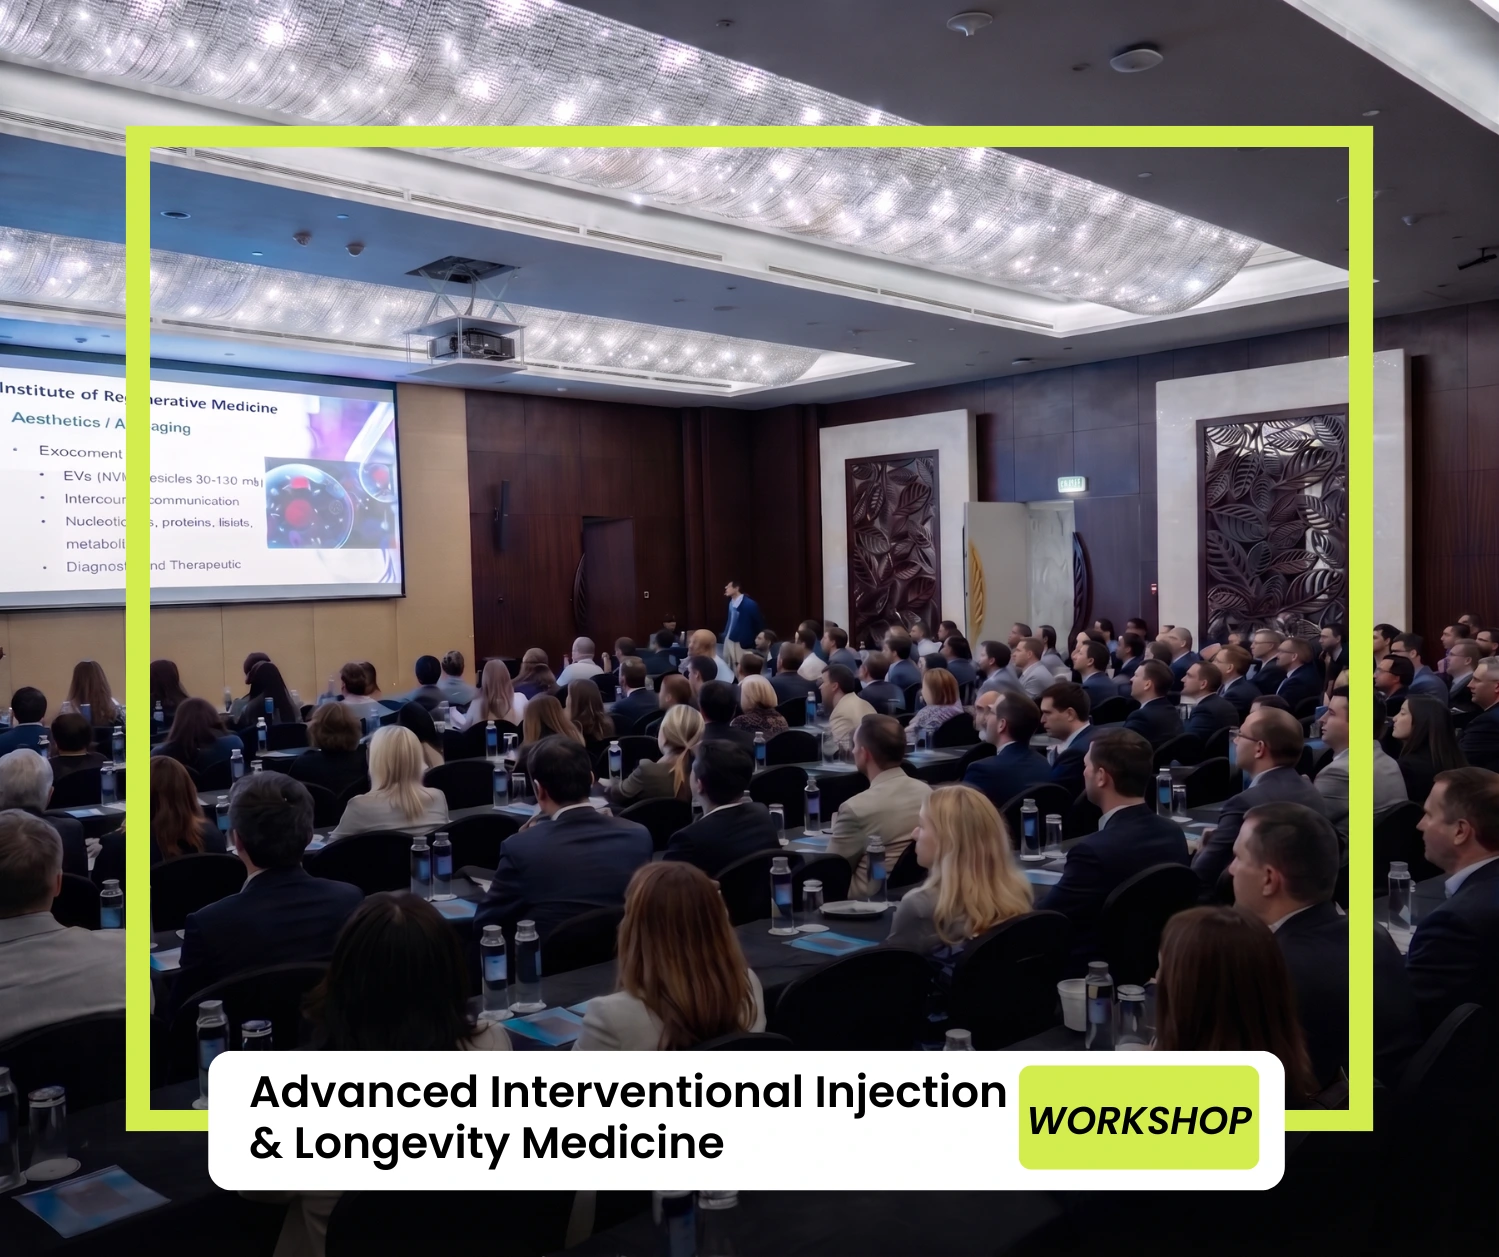
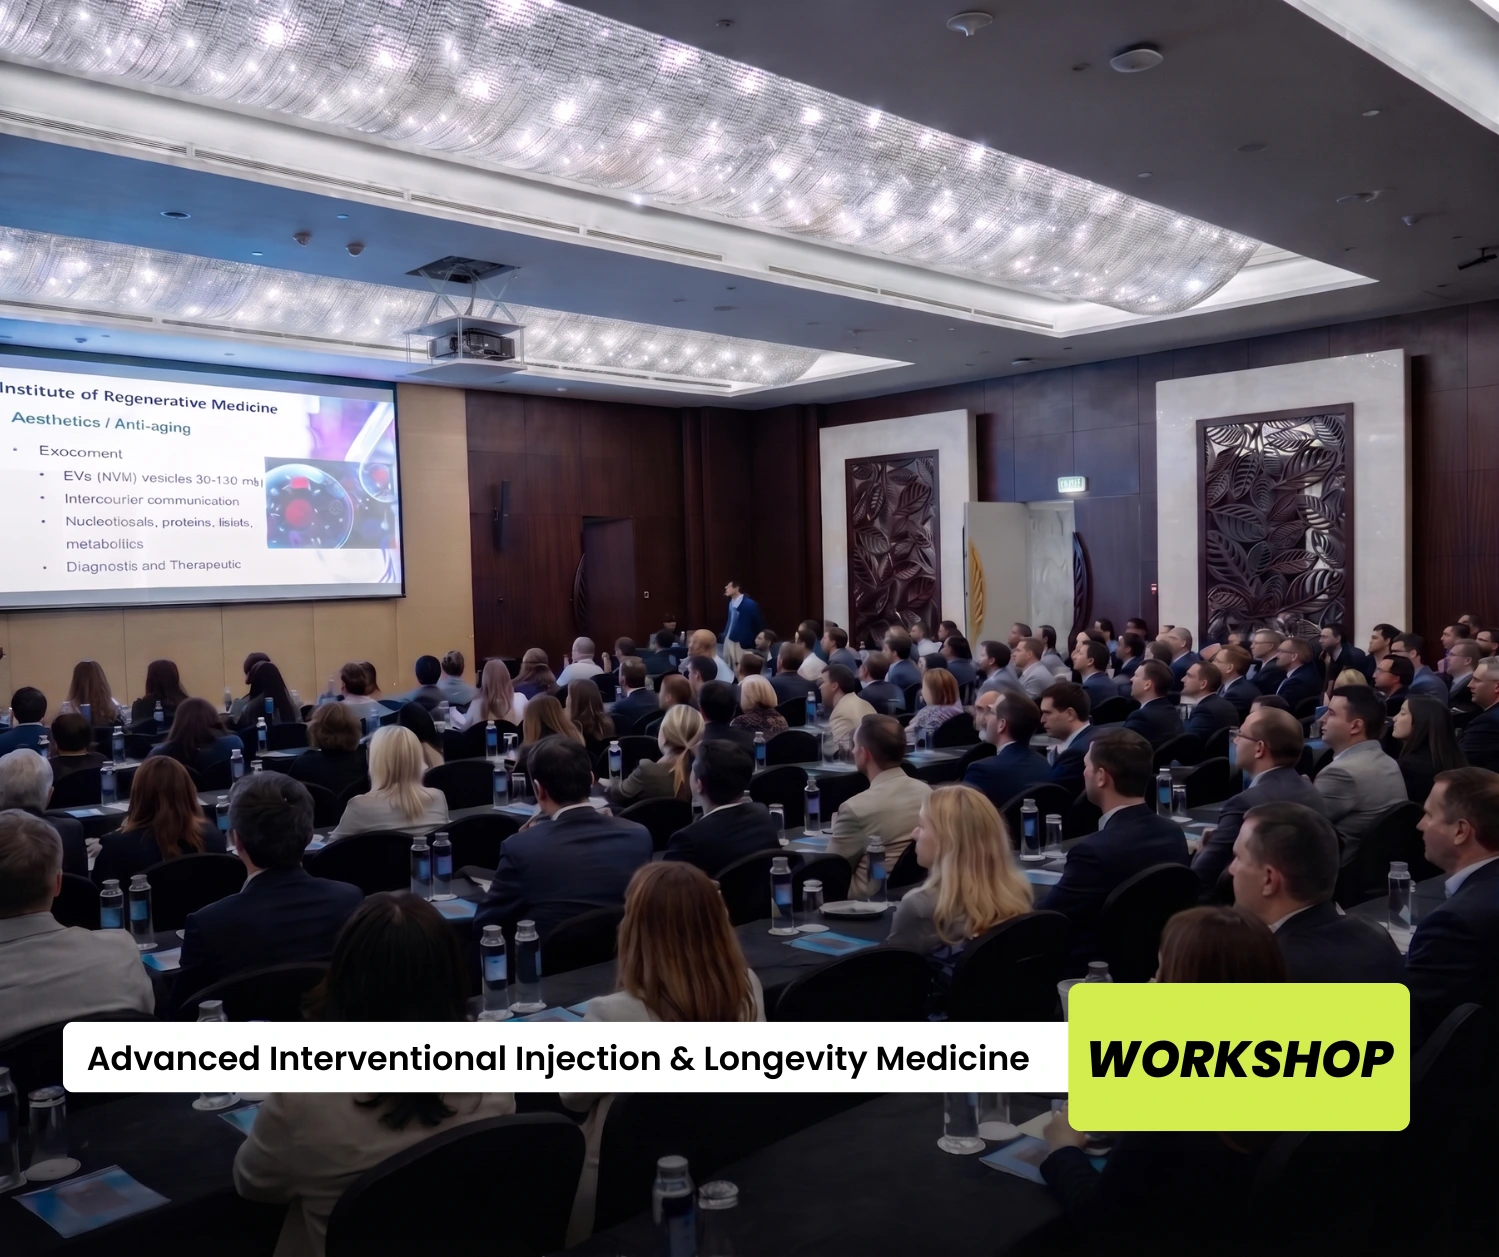
Elite Medical Education section: fit the image to a landscape ratio
The section image used a 1:1 square that rendered too tall in the wide
media column. Switch to a 4/3 aspect ratio capped at 400px height with
object-fit: cover so it sits proportionally within the section. Also
refresh the why-image with the re-uploaded banner.

Claude-Session: https://claude.ai/code/session_01KvVyHP1uRM6Qu9H2CEMFLY

Changed region(s): [[0.0307, 0.0931, 0.9513, 0.9618]]

diff --git a/templates/events/_workshop_landing.html b/templates/events/_workshop_landing.html
@@ -79,7 +79,7 @@ Pricing posts to the live Stripe checkout.
 .evx-why h2{font-size:clamp(24px,3vw,29px);color:var(--p);margin-bottom:14px;}
 .evx-why__lead{color:var(--muted);font-size:16px;margin-bottom:24px;}
 .evx-why__media{position:relative;}
-.evx-why__media img{width:100%;aspect-ratio:1/1;object-fit:cover;border-radius:18px;border:1px solid var(--line);box-shadow:var(--shadow-lg);}
+.evx-why__media img{width:100%;aspect-ratio:4/3;max-height:400px;object-fit:cover;object-position:center;border-radius:18px;border:1px solid var(--line);box-shadow:var(--shadow-lg);display:block;}
 .evx-why__badge{position:absolute;left:-16px;bottom:-16px;background:var(--pd);color:#fff;border-radius:14px;padding:18px 20px;display:flex;align-items:center;gap:14px;box-shadow:var(--shadow-lg);}
 .evx-why__badge svg{width:34px;height:34px;color:var(--accent2);}
 .evx-why__badge b{display:block;font-family:var(--font-display);font-size:17px;}